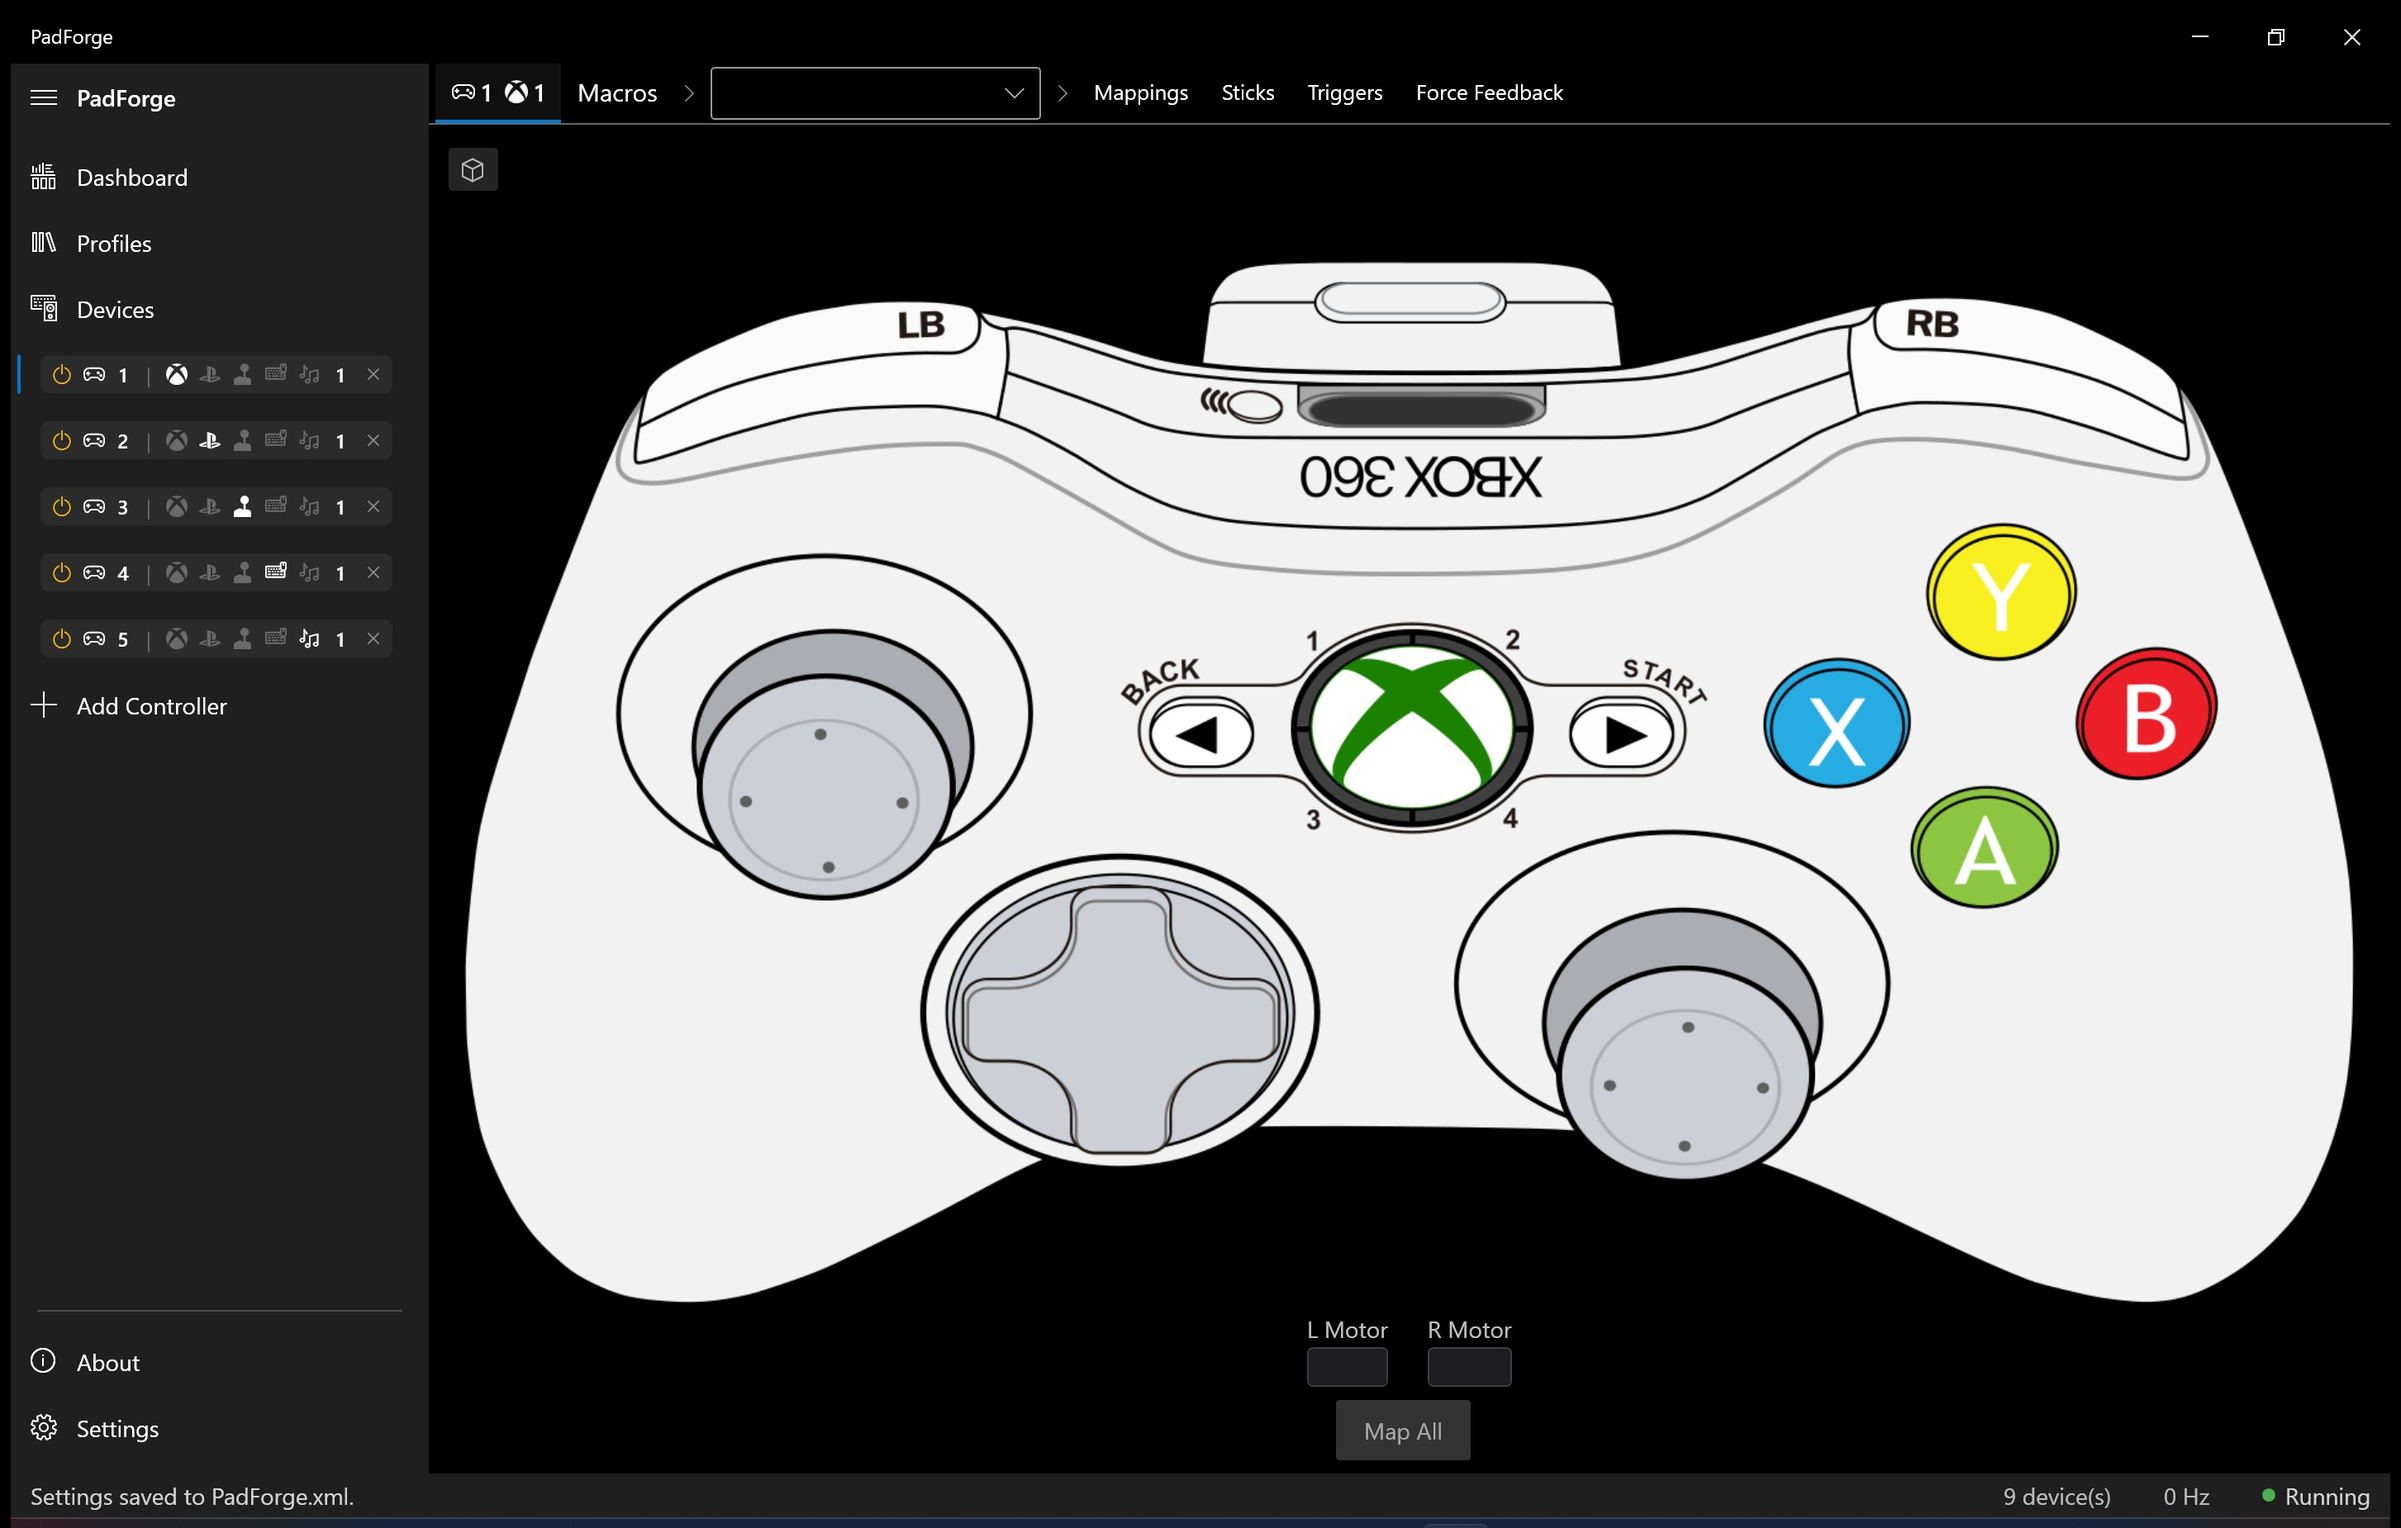
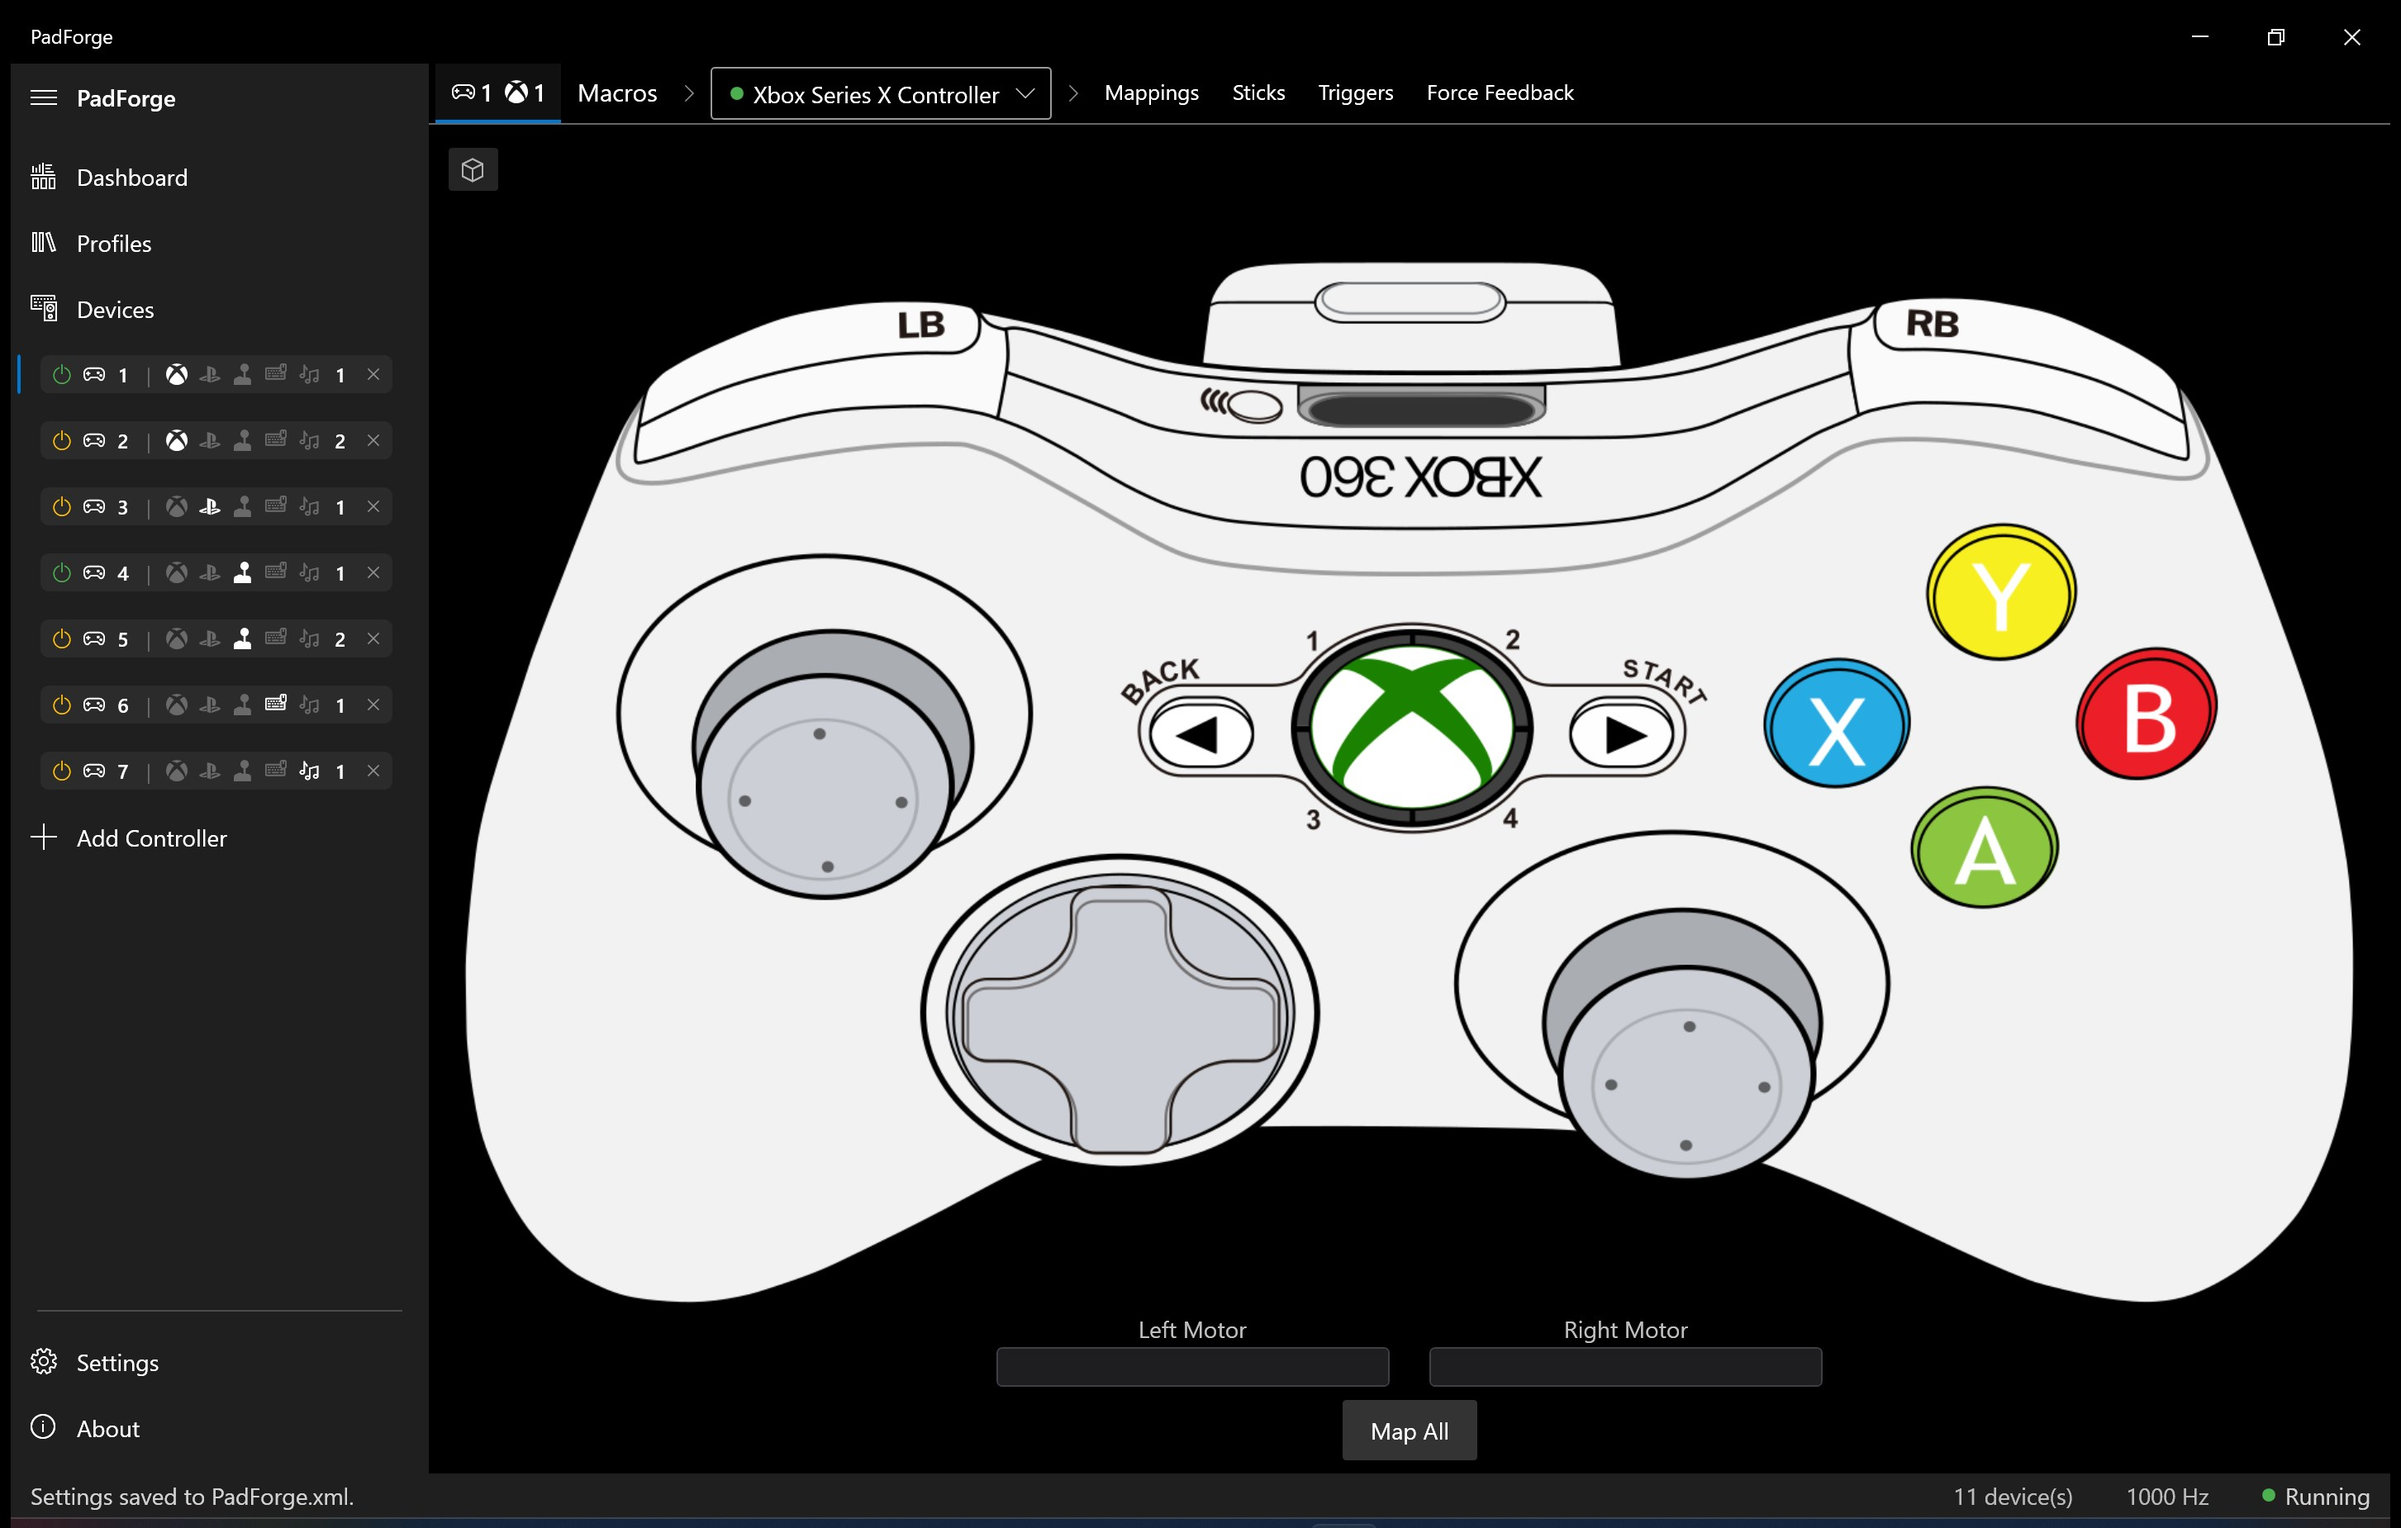
Fix CultureChanged GC leaks with weak event pattern; retake all screenshots; add multilingual to README
- Strings.Designer.cs: Replace plain static event with weak event pattern
  (WeakReference<object> + MethodInfo for instance handlers, strong list for static)
- Convert anonymous lambda subscribers to named methods in DeviceRowViewModel,
  MacroItem, MacroAction, MappingItem, InputService (prevents immediate GC collection)
- capture_all.ps1: Inject Language=en for English UI during screenshot capture
- README.md: Add multilingual support feature, update Settings screenshot description
- All 24 screenshots retaken with current UI

diff --git a/PadForge.App/Resources/Strings/Strings.Designer.cs b/PadForge.App/Resources/Strings/Strings.Designer.cs
@@ -4,6 +4,7 @@
 
 using System.ComponentModel;
 using System.Globalization;
+using System.Reflection;
 using System.Resources;
 
 namespace PadForge.Resources.Strings;
@@ -18,11 +19,77 @@ public class Strings : INotifyPropertyChanged
 
     public event PropertyChangedEventHandler PropertyChanged;
 
+    // ── Weak CultureChanged event ──────────────────────────
+    // Subscribers whose Target is null (static methods / static lambdas) are
+    // stored with a strong reference.  Instance-method subscribers are stored
+    // as (WeakReference<Target>, MethodInfo) so they don't prevent GC of the
+    // subscribing object.  Dead entries are pruned on every raise.
+
+    private static readonly object _cultureLock = new();
+    private static readonly List<Action> _staticCultureHandlers = new();
+    private static readonly List<WeakCultureEntry> _weakCultureHandlers = new();
+
+    private readonly struct WeakCultureEntry
+    {
+        public readonly WeakReference<object> TargetRef;
+        public readonly MethodInfo Method;
+        public WeakCultureEntry(object target, MethodInfo method)
+        {
+            TargetRef = new WeakReference<object>(target);
+            Method = method;
+        }
+    }
+
     /// <summary>
     /// Raised after <see cref="ChangeCulture"/> so ViewModels can refresh their own
     /// culture-dependent computed properties (status text, titles, etc.).
+    /// Instance-method handlers are held weakly — subscribers do NOT need to
+    /// unsubscribe to avoid leaking.
     /// </summary>
-    public static event Action CultureChanged;
+    public static event Action CultureChanged
+    {
+        add
+        {
+            if (value == null) return;
+            lock (_cultureLock)
+            {
+                if (value.Target == null)
+                    _staticCultureHandlers.Add(value);
+                else
+                    _weakCultureHandlers.Add(new WeakCultureEntry(value.Target, value.Method));
+            }
+        }
+        remove
+        {
+            if (value == null) return;
+            lock (_cultureLock)
+            {
+                if (value.Target == null)
+                    _staticCultureHandlers.Remove(value);
+                // Weak entries are auto-pruned on raise; explicit remove is best-effort.
+            }
+        }
+    }
+
+    private static void RaiseCultureChanged()
+    {
+        List<Action> snapshot;
+        lock (_cultureLock)
+        {
+            snapshot = new List<Action>(_staticCultureHandlers.Count + _weakCultureHandlers.Count);
+            snapshot.AddRange(_staticCultureHandlers);
+            for (int i = _weakCultureHandlers.Count - 1; i >= 0; i--)
+            {
+                var entry = _weakCultureHandlers[i];
+                if (entry.TargetRef.TryGetTarget(out var target))
+                    snapshot.Add((Action)Delegate.CreateDelegate(typeof(Action), target, entry.Method));
+                else
+                    _weakCultureHandlers.RemoveAt(i);
+            }
+        }
+        foreach (var handler in snapshot)
+            handler();
+    }
 
     public static string Get(string key) => _rm.GetString(key, CultureInfo.CurrentUICulture) ?? key;
 
@@ -35,7 +102,7 @@ public class Strings : INotifyPropertyChanged
         Thread.CurrentThread.CurrentUICulture = culture;
         CultureInfo.DefaultThreadCurrentUICulture = culture;
         Instance.PropertyChanged?.Invoke(Instance, new PropertyChangedEventArgs(null));
-        CultureChanged?.Invoke();
+        RaiseCultureChanged();
     }
 
     public string Common_Save => Get("Common_Save");

diff --git a/PadForge.App/Services/InputService.cs b/PadForge.App/Services/InputService.cs
@@ -108,7 +108,7 @@ namespace PadForge.Services
             _dispatcher = Dispatcher.CurrentDispatcher;
 
             // Refresh server status strings when language changes.
-            Strings.CultureChanged += () => _dispatcher.BeginInvoke(RefreshServerStatusStrings);
+            Strings.CultureChanged += OnCultureChanged;
 
             // Subscribe to device selection changes on each pad.
             foreach (var padVm in _mainVm.Pads)
@@ -1397,6 +1397,34 @@ namespace PadForge.Services
         }
 
         /// <summary>
+        /// Applies a PadSetting from a source layout to the current device with cross-layout translation.
+        /// </summary>
+        public void ApplyPadSettingToCurrentDeviceTranslated(int padIndex, PadSetting source,
+            VirtualControllerType sourceType, bool sourceIsCustomVJoy,
+            VirtualControllerType targetType, bool targetIsCustomVJoy)
+        {
+            if (source == null || padIndex < 0 || padIndex >= _mainVm.Pads.Count)
+                return;
+
+            var padVm = _mainVm.Pads[padIndex];
+            var selected = padVm.SelectedMappedDevice;
+            if (selected == null || selected.InstanceGuid == Guid.Empty)
+                return;
+
+            var us = SettingsManager.FindSettingByInstanceGuidAndSlot(selected.InstanceGuid, padIndex);
+            if (us == null) return;
+
+            var ps = us.GetPadSetting();
+            if (ps == null) return;
+
+            // Copy with cross-layout translation.
+            ps.CopyFromTranslated(source, sourceType, sourceIsCustomVJoy, targetType, targetIsCustomVJoy);
+
+            // Reload the ViewModel to reflect the new values.
+            LoadPadSettingToViewModel(padVm, selected.InstanceGuid);
+        }
+
+        /// <summary>
         /// Flushes all active pad ViewModels back to their PadSettings so that
         /// stored PadSettings reflect the latest UI state. Call before reading
         /// PadSettings across multiple slots (e.g., Copy From dialog).
@@ -1738,6 +1766,8 @@ namespace PadForge.Services
             _mainVm.Dashboard.WebControllerStatus = Strings.Instance.Common_Stopped;
             _mainVm.Dashboard.WebControllerClientCount = 0;
         }
+
+        private void OnCultureChanged() => _dispatcher.BeginInvoke(RefreshServerStatusStrings);
 
         /// <summary>
         /// Re-sets server status display strings after a language change.

diff --git a/PadForge.App/ViewModels/MappingItem.cs b/PadForge.App/ViewModels/MappingItem.cs
@@ -28,11 +28,7 @@ namespace PadForge.ViewModels
             TargetLabel = targetLabel ?? string.Empty;
             TargetSettingName = targetSettingName ?? string.Empty;
             Category = category;
-            Strings.CultureChanged += () =>
-            {
-                OnPropertyChanged(nameof(SourceDisplayText));
-                OnPropertyChanged(nameof(RecordButtonText));
-            };
+            Strings.CultureChanged += OnCultureChanged;
             NegSettingName = negSettingName;
         }
 
@@ -193,6 +189,12 @@ namespace PadForge.ViewModels
         /// Whether this mapping row has a source assigned.
         /// </summary>
         public bool IsMapped => !string.IsNullOrEmpty(_sourceDescriptor) || !string.IsNullOrEmpty(_negSourceDescriptor);
+
+        private void OnCultureChanged()
+        {
+            OnPropertyChanged(nameof(SourceDisplayText));
+            OnPropertyChanged(nameof(RecordButtonText));
+        }
 
         // ─────────────────────────────────────────────
         //  Recording state

diff --git a/PadForge.App/ViewModels/MacroItem.cs b/PadForge.App/ViewModels/MacroItem.cs
@@ -30,11 +30,13 @@ namespace PadForge.ViewModels
 
         public MacroItem()
         {
-            Strings.CultureChanged += () =>
-            {
-                OnPropertyChanged(nameof(RecordTriggerButtonText));
-                OnPropertyChanged(nameof(TriggerDisplayText));
-            };
+            Strings.CultureChanged += OnCultureChanged;
+        }
+
+        private void OnCultureChanged()
+        {
+            OnPropertyChanged(nameof(RecordTriggerButtonText));
+            OnPropertyChanged(nameof(TriggerDisplayText));
         }
 
         private string _name = Strings.Instance.Macro_NewMacro;
@@ -575,7 +577,12 @@ namespace PadForge.ViewModels
 
         public MacroAction()
         {
-            Strings.CultureChanged += () => OnPropertyChanged(nameof(DisplayText));
+            Strings.CultureChanged += OnCultureChanged;
+        }
+
+        private void OnCultureChanged()
+        {
+            OnPropertyChanged(nameof(DisplayText));
         }
 
         private MacroActionType _type = MacroActionType.ButtonPress;

diff --git a/PadForge.App/ViewModels/DeviceRowViewModel.cs b/PadForge.App/ViewModels/DeviceRowViewModel.cs
@@ -14,12 +14,14 @@ namespace PadForge.ViewModels
     {
         public DeviceRowViewModel()
         {
-            Strings.CultureChanged += () =>
-            {
-                OnPropertyChanged(nameof(DeviceType));
-                OnPropertyChanged(nameof(StatusText));
-                OnPropertyChanged(nameof(CapabilitiesSummary));
-            };
+            Strings.CultureChanged += OnCultureChanged;
+        }
+
+        private void OnCultureChanged()
+        {
+            OnPropertyChanged(nameof(DeviceType));
+            OnPropertyChanged(nameof(StatusText));
+            OnPropertyChanged(nameof(CapabilitiesSummary));
         }
 
         // ─────────────────────────────────────────────

diff --git a/README.md b/README.md
@@ -22,6 +22,7 @@ Built with SDL3, Windows Raw Input, ViGEmBus, vJoy, Windows MIDI Services, Helix
 - **Input hiding** — Automatically hide physical controllers from games via HidHide (driver-level, prevents double input) or consume only mapped keyboard/mouse inputs via low-level hooks (no driver needed). Per-device toggles with auto-enable for gamepads and safety warnings for mice/keyboards. Built-in HidHide app whitelisting
 - **Driver management** — One-click install/uninstall for ViGEmBus, HidHide, vJoy, and Windows MIDI Services. Built-in HidHide device blacklisting and app whitelisting — no external configuration tool needed
 - **Flight-sim-grade input precision** — 1000 Hz polling with sub-millisecond jitter via high-resolution waitable timers, bit-perfect axis passthrough at default settings, double-precision dead zone math, and 16-bit (65536-position) vJoy axis output that exceeds the resolution of physical controller ADCs
+- **Multilingual support** — Switch languages live from Settings without restarting. Community-contributed translations via .resx resource files
 - **System tray** — Minimize to tray, start minimized, start at login
 - **Portable** — Single-file self-contained executable
 
@@ -85,7 +86,7 @@ Card-based device list showing all detected gamepads, joysticks, keyboards, and 
 
 ### Settings
 ![Settings](screenshots/settings.jpg)
-Appearance theme, input engine options (auto-start, background polling, configurable polling interval, master input hiding toggle), and window behavior (system tray, start minimized, start at login).
+Language selector for live multilingual switching, appearance theme, input engine options (auto-start, background polling, configurable polling interval, master input hiding toggle), and window behavior (system tray, start minimized, start at login).
 
 ### Settings — Input Hiding
 ![Settings — Input Hiding](screenshots/settings-hidhide.jpg)
